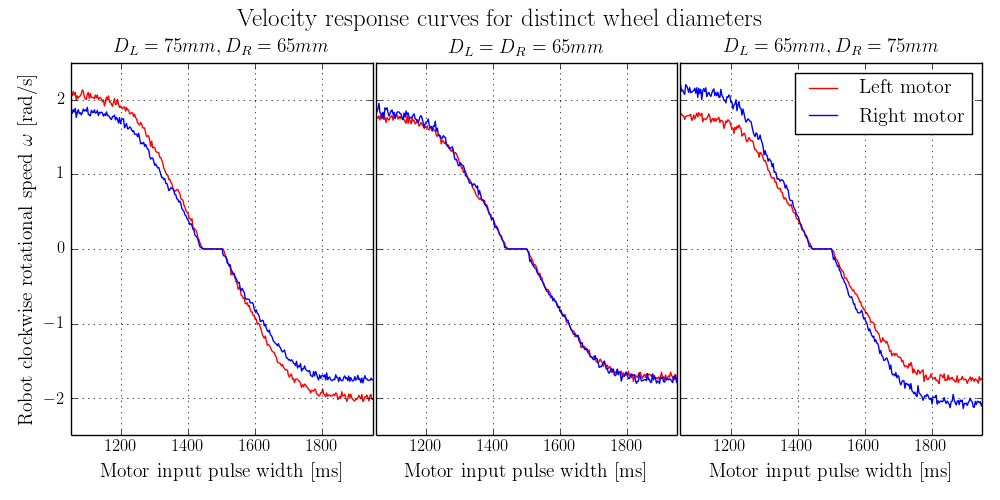
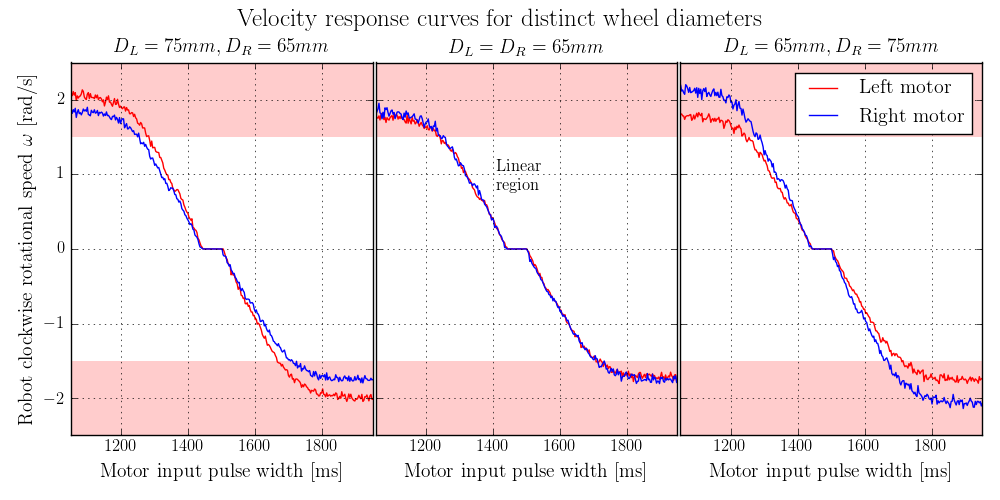
Highlighted nonlinear region

Changed region(s): [[0.062, 0.12, 0.992, 0.3], [0.062, 0.72, 0.992, 0.87], [0.496, 0.33, 0.558, 0.39]]

diff --git a/Software/motor_calib/plot_results.py b/Software/motor_calib/plot_results.py
@@ -18,6 +18,8 @@ rc('font',**{'family':'serif','serif':['Computer Modern']})
 f, ax = subplots(1,3,figsize=(10,5))
 
 
+my_red = (1,0,0,0.2)
+
 suptitle('Velocity response curves for distinct wheel diameters', fontsize=18)
 
 data = loadFromFile("","motorCalibLog_biggerLwheel.p")
@@ -34,6 +36,9 @@ ax[0].set_ylabel('Robot clockwise rotational speed $\omega$ [rad/s]', fontsize=1
 ax[0].set_title('$D_L=75mm, D_R=65mm$', fontsize=14)
 ax[0].set_ylim([-2.5,2.5])
 ax[0].set_xlim([1050,1950])
+
+ax[0].add_patch(Rectangle((1050,1.5),900,1,linewidth=0,facecolor=my_red))
+ax[0].add_patch(Rectangle((1050,-2.5),900,1,linewidth=0,facecolor=my_red))
 
 ax[0].grid(True)
 
@@ -56,6 +61,11 @@ ax[1].set_ylim([-2.5,2.5])
 ax[1].set_xlim([1050,1950])
 ax[1].set_yticklabels([])
 
+ax[1].add_patch(Rectangle((1050,1.5),900,1,linewidth=0,facecolor=my_red))
+ax[1].add_patch(Rectangle((1050,-2.5),900,1,linewidth=0,facecolor=my_red))
+
+ax[1].text(1410,0.8,"Linear\nregion", fontsize=12)
+
 ax[1].grid(True)
 
 tight_layout()
@@ -76,6 +86,9 @@ ax[2].set_title('$D_L=65mm, D_R=75mm$', fontsize=14)
 ax[2].set_ylim([-2.5,2.5])
 ax[2].set_xlim([1050,1950])
 ax[2].set_yticklabels([])
+
+ax[2].add_patch(Rectangle((1050,1.5),900,1,linewidth=0,facecolor=my_red))
+ax[2].add_patch(Rectangle((1050,-2.5),900,1,linewidth=0,facecolor=my_red))
 
 ax[2].grid(True)
 
